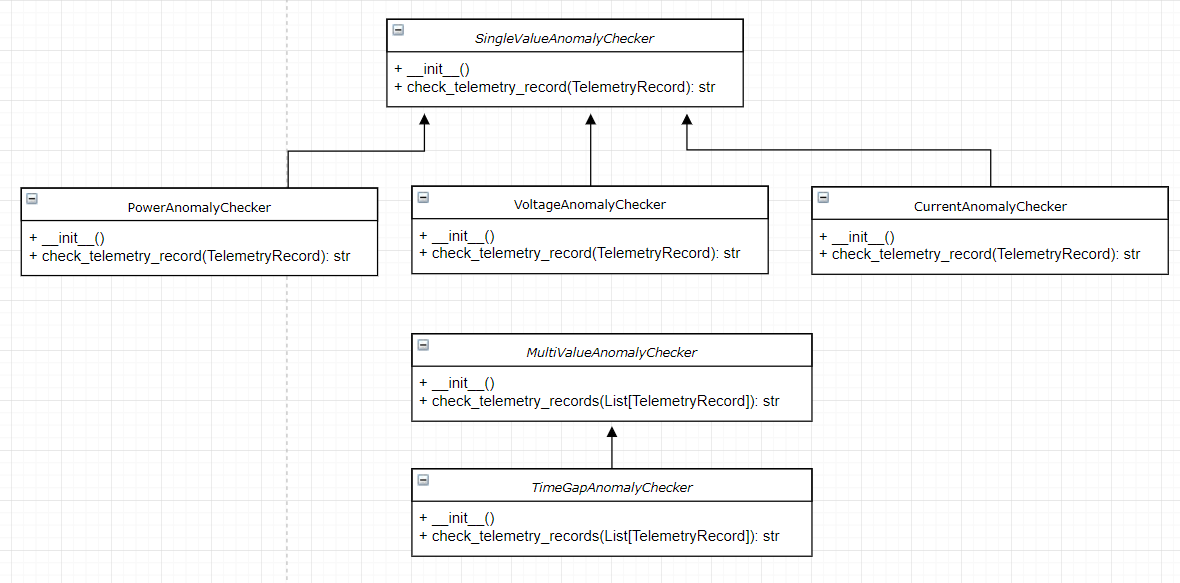
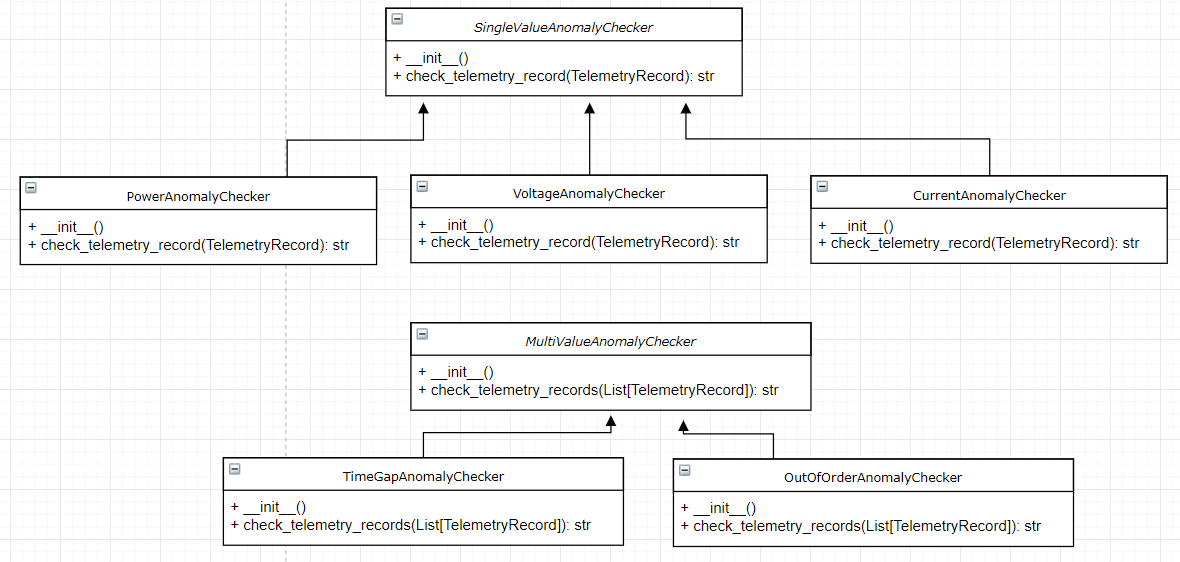
Updated documentation

diff --git a/README.md b/README.md
@@ -1,4 +1,4 @@
-# Description
+# Description of Problem
 
 This is an exercise in object oriented design using Python.  
 
@@ -8,6 +8,7 @@ Input lines appear as:
   ```
   T, kW, V, I
   ```
+  The data fields are:
 - T: ISO 8601 formatted timestamp
 - kW: Power measurement
 - V: Voltage measurement
@@ -27,6 +28,14 @@ Certain anomalies are detected, and are logged in the output when detected:
     - V values outside range of 480 V +/- 5.0 V
     - I values < 0.0
 
+I also noticed an out-of-order pair of telemetry points in the sample input.
+
+# Problem Assumptions
+- Input data will be properly formed. I.e. it will never fail to be parsed correctly according to its schema, maybe because a filter microservice has already removed these values
+- Anomalies that aren't time gaps will still be used in the moving average calculations.  A downstream microservice reading anomaly messages could deal with these and decide what to do.
+
+It was initially assumed that data would not arrive out of order, but there was one case of that in the sample input file.  This is checked for and reported as an anomaly.
+
 # Requirements
 * Python 3.6+
 
@@ -40,7 +49,7 @@ An input data file inputdata.dat is provided.  This was originally named telemet
 python ProcessPowerlineFile.py inputdata.dat outputfile.dat
 ```
 
-The file will be processed and the output will appear in outputfile.dat.
+The input file will be processed and the output will appear in the outputfile.dat in the above case.
 
 # Running Tests
 
@@ -48,6 +57,8 @@ To run the unit tests, from the project directory, run:
 ```
 python -m unittest discover pyPowerLine/test
 ```
+
+100% code coverage was not obtained for this short exercise or attempted, but Test-Driven-Development was used to help refine the design after initial whiteboarding.
 
 # Design
 
@@ -57,6 +68,8 @@ The overall dataflow is based around three abstract classes:
 * **DatalogWriter**
 
 Each class is purely abstract, i.e. not instantiatable. They serve as abstraction of input and outputs, as well as the processing algorithm performed between input and output.
+
+Additional classes descried below contain telemetry and check for data anomalies.
 
 
 ## DatalogLoader
@@ -69,7 +82,7 @@ Here is an inheritance diagram for DatalogLoader. Note that in this implementati
 
 ### Methods:
 * get():
-Returns one line of telemetry as a string.  The string is not newline terminated.  If this won't be possible, i.e. there are no more lines in an input file or a socket is closed, return **None**.
+Returns one line of telemetry as a string.  The string is not newline terminated.  If this won't be possible, i.e. there are no more lines in an input file or a socket is closed, returns **None**.
 
 * close():
 Closes the underlying data source, i.e. the file or socket.
@@ -95,7 +108,7 @@ This is an abstract base class that uses dependency injection to call the get() 
 The dataflow works like this:
 ![DataProcessorFlow](doc/DataProcessorDataflow.png)
 
-And the interitance as implemented is:
+And the abstract interitance as implemented is:
 ![DataProcessorInheritance](doc/DataProcessorInheritance.png)
 
 
@@ -103,16 +116,18 @@ And the interitance as implemented is:
 * \_\_init\_\_(function get_function, function put_function): Instantiates the class with pointers to functions that should be implemented by a **DatalogLoader** and a **DatalogWriter**
 
 * run():
-Calls the callback that gets a line of telemetry and processes it in an output line, which is then sent to the write function callback.  Continues until get() has a problem.
+Calls the callback that gets a line of telemetry and processes it in an output line and list of anomaly strings, which are then sent to the write function callback.  Continues until get() has a problem.
 
 * str, List[str] process_line(str):
 Called by run() each time a telemetry line is read. Returns the processed telemetry line, and a list of anomaly strings.
 
 ### PowerlineDataProcessor
 
-This subclass keeps a record of the moving average window worth of samples in a buffer.  It checks the timestamps of old values and discards them if they are too old, keeping the memory footprint low.
+This subclass performs the processing specific to this problem.
 
-Class **TelemetryRecord** is private to this class and encapsulates an input data record. 
+It keeps a buffer of one moving average window worth of samples in a buffer.  It checks the timestamps of old values and discards them if they are too old, keeping the memory footprint low.
+
+Class **TelemetryRecord** encapsulates an input data record but is only used by this **PowerlineDataProcessor** and the **AnomalyChecker**; the **DatalogLoader** and **DatalogWriter** are agnostic to them, to achieve loose coupling.
 
 There is also an inheritance tree from abstract class **AnomalyChecker**, which has several child classes that each override a *check_telemetry_record* method.  The **PowerlineDataProcessor** maintains a list of anomaly checkers, and passes **TelemetryRecord** objects to each one to receive any anomaly messages, or None if there is no anomaly detected by the checker.  Anomalies apply to either a single telemetry measurement, or across several (in the case of the time gaps).
 
@@ -122,10 +137,6 @@ Here are the anomaly checkers that were implemented:
 
 # Test Plan
 
-## Assumptions
-- Timestamped telemetry is always in chronological order. I.e. whatever transport brings in the data is assumed to serve to guarantee in-order delivery
-- Input data is properly formed. I.e. it will never fail to be parsed correctly according to its schema
-
 ## Unit Testing
 
 Individual classes will be unit tested to assure their correct output, such as:
@@ -133,11 +144,33 @@ Individual classes will be unit tested to assure their correct output, such as:
 * Writing of lines to a file by **DatalogFileWriter**
 * Parsing of telemetry into a **TelemetryRecord** object by **PowerlineDataProcessor**
 
-Object mocking will be used with the **DataProcessor** class to ensure it calls the correct methods that have been injected into it.
+Object mocking will be used with the **DataProcessor** class to ensure it calls the correct methods that have been injected into it.  The prevention of instatiating abstract base classes will be suppressed so that it can be unit tested like this.  The trick to do this will be to use the following as the TestCase setUp method:
+```python
+    def setUp(self):
+        # allow instantiation of an ABC for testing
+        DataProcessor.__abstractmethods__ = set()
+```
+
 
 ## Integration Testing
 
-A file with hand-calculated outputs should be passed through the program to verify correctness.
+Some hand-calculated outputs should be checked against program output to verify correctness.  The provided input file containes examples of each of the anomalies, so is a good check for these as well.
+
+## Continuous Integration
+
+The unit tests should be run automatically after every push the central repository.  This hasn't been implemented for this implementation.
+
+## Code Coverage
+
+A code coverage check should be run as part of the continuous integration process.  There are many programs or services for this with python, such as nose.
 
 ## Acceptance
-The unit tests and integration test must all pass.
+The unit tests and integration test must all pass. 
+
+# What would I do differently
+If I were to do this exercise again, I would:
+
+- Pass a cancellation token of some sort to **DataProcessor**, to allow graceful shutdown from another thread when reading from an source that has a potentially infinite amount of data, like a socket for example
+- Make the **SingleValueAnomalyChecker** and **MultiValueAnomalyChecker** abstract base classes both themselves descend from another abstract base class, **AnomalyChecker**, and refactor somewhat how anomaly messages are generated in order to simplify the client code.
+
+- It would be resiliant to out-of-order data, inserting it in the correct place in the moving average filter buffer when it does arrive. 
